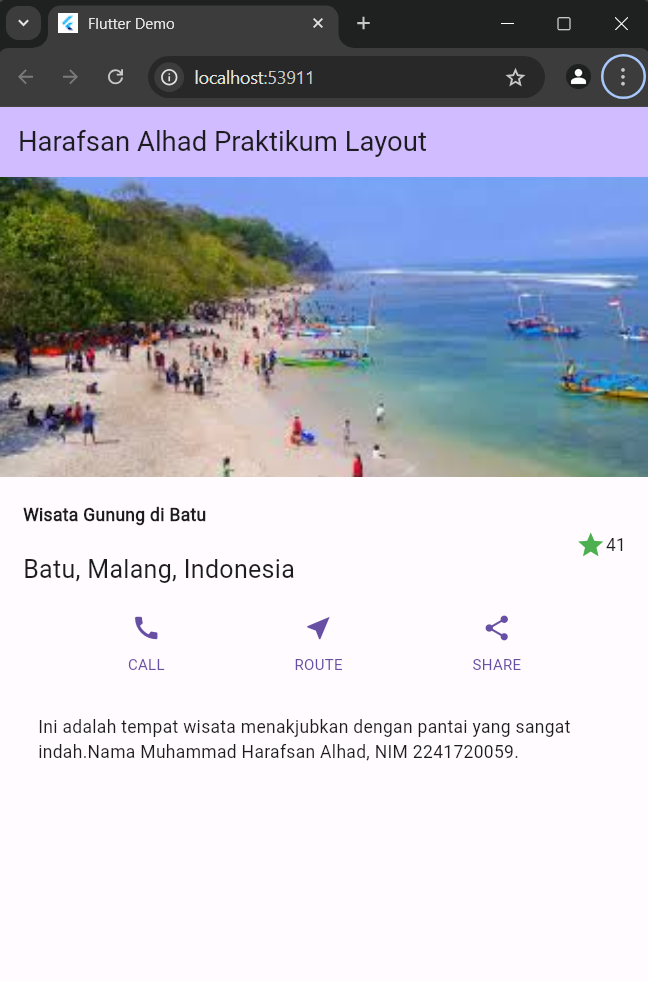
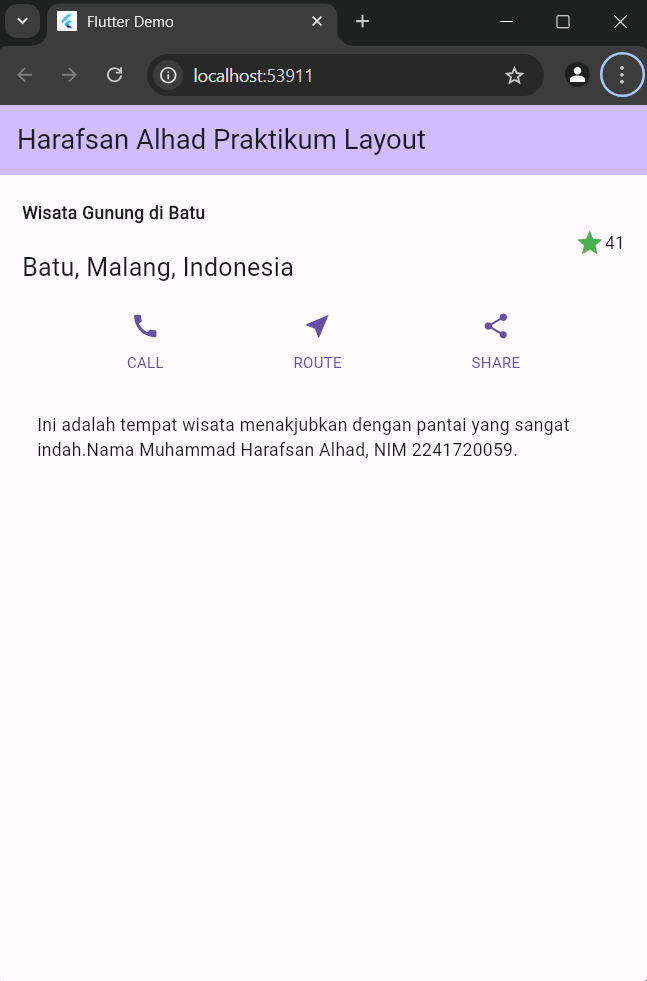
praktikum 4 done

diff --git a/week7-flutter_layout/README.md b/week7-flutter_layout/README.md
@@ -14,8 +14,12 @@ Menambahkan widget titleSection dengan mereturn beberapa widget
 
 Menambahkan variable buttonSection ke dalam body
 
-![Praktikum 3](assets/praktikum3.png)
+![Praktikum 4](assets/praktikum3.png)
 
-Menambahkan variable textsection serta beberapa img ke dalam main
+Menambahkan textsection ke dalam body
+
+![Praktikum 4](assets/praktikum4.png)
+
+Menambahkan img ke dalam main
 
 
